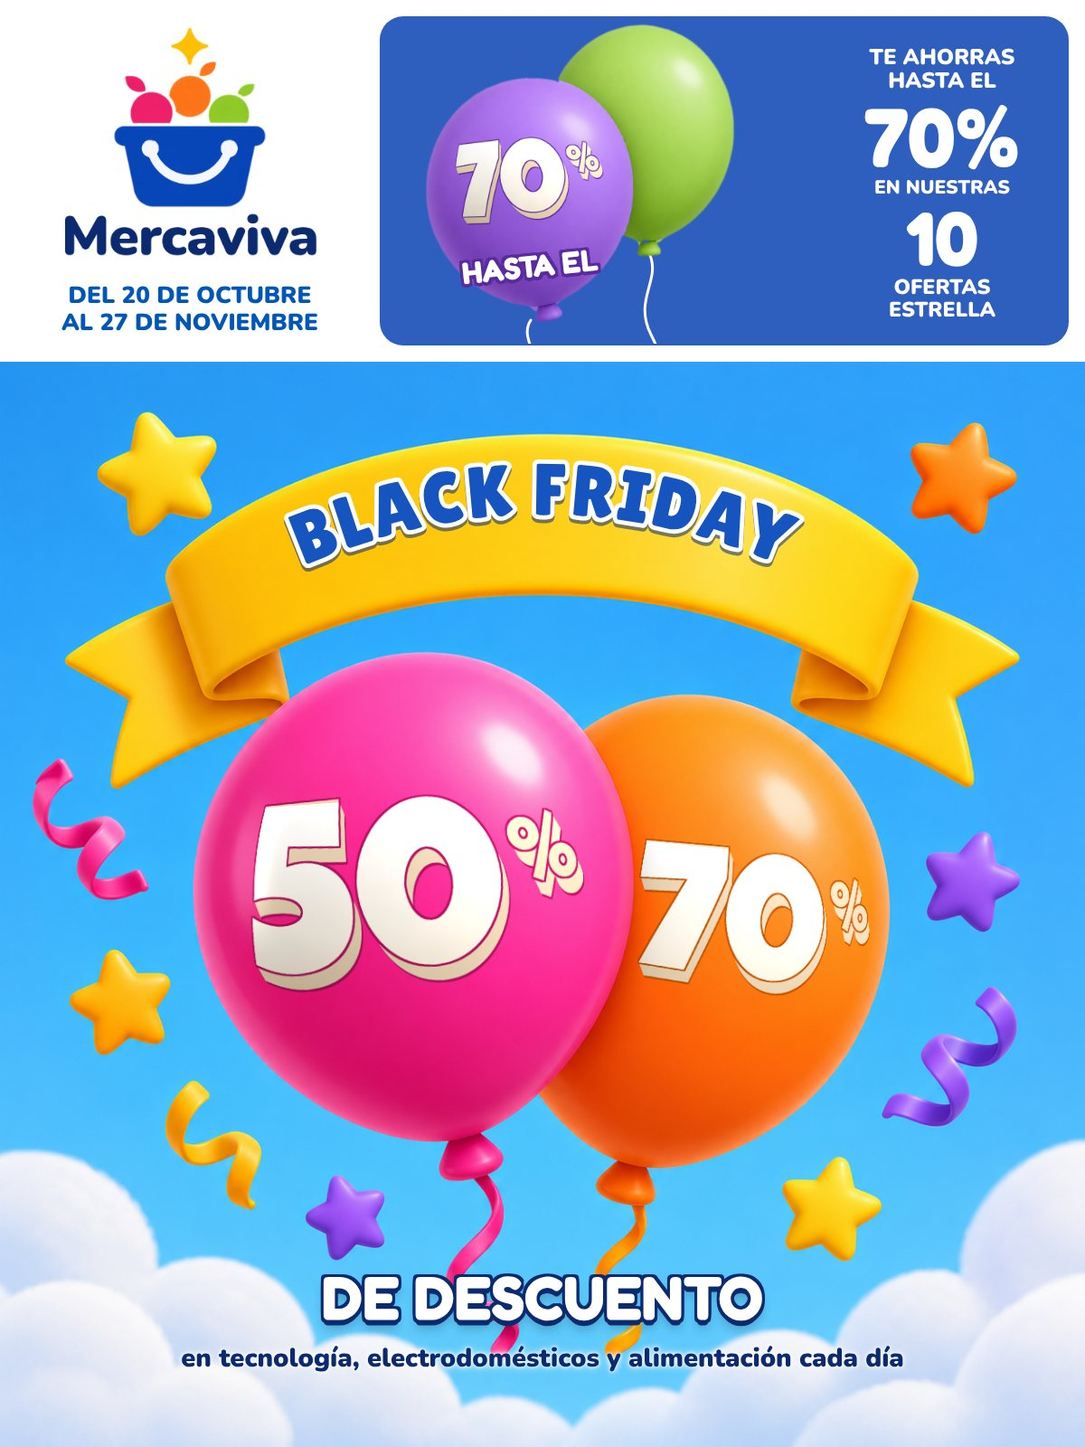
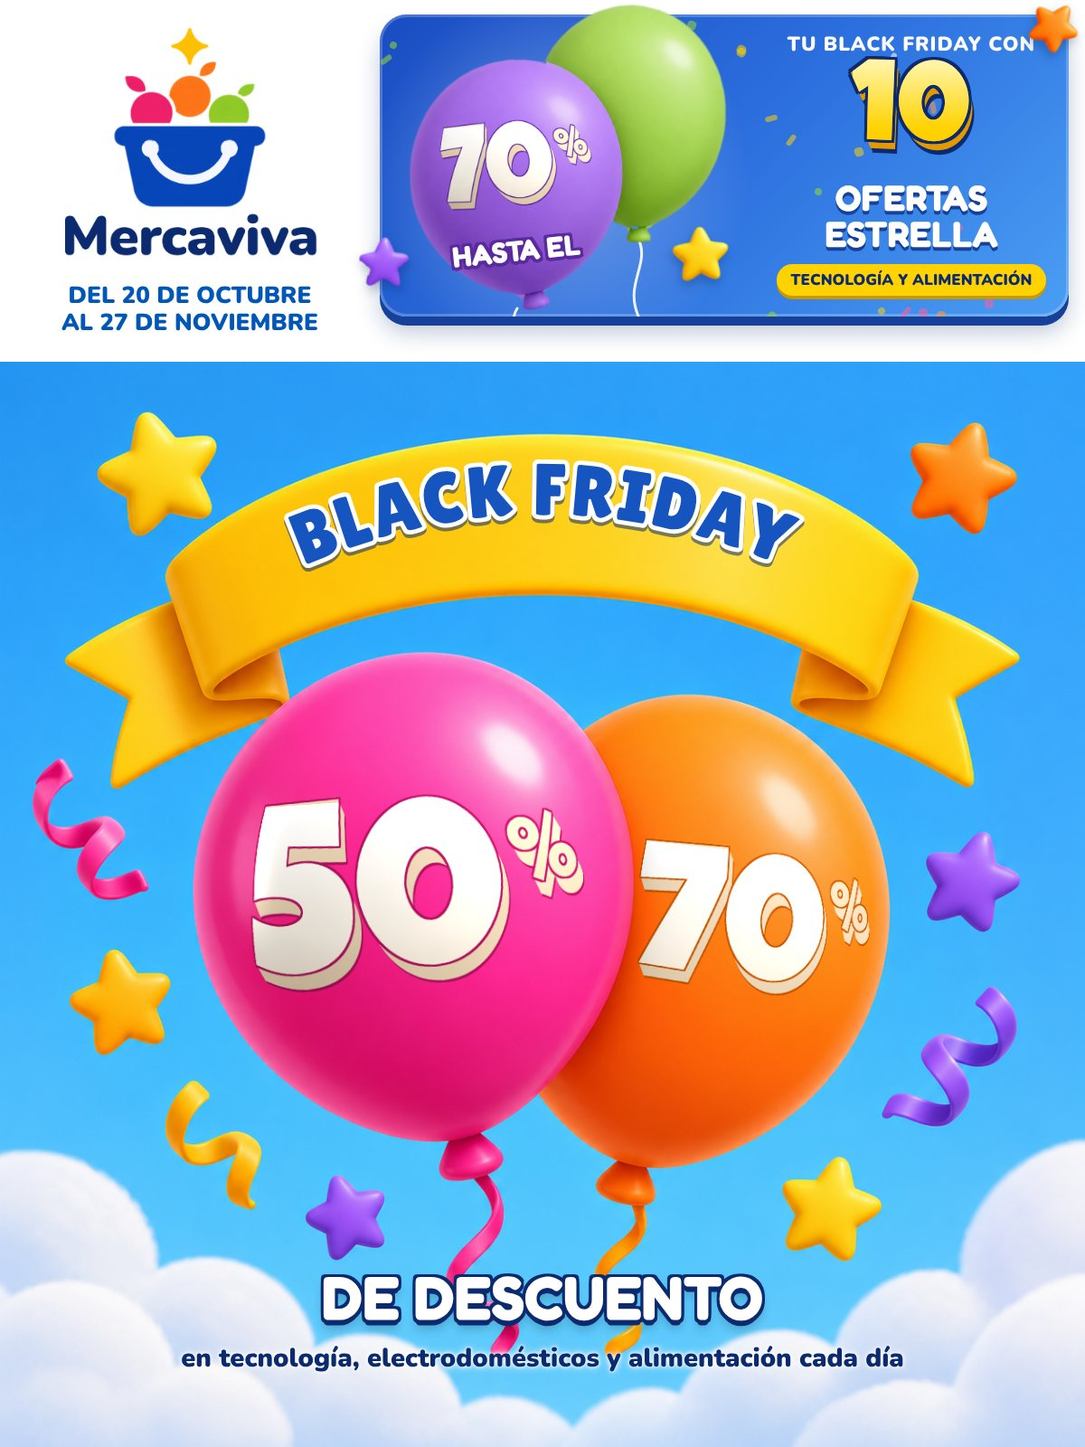
Recuadro de cabecera rediseñado: volumen, confeti, estrellas y 10 ofertas estrella en 3D
Claude-Session: https://claude.ai/code/session_014n8fruw4BUtYLKWozkJouR

Changed region(s): [[0.3392, 0.0, 1.0, 0.25]]

diff --git a/index.html b/index.html
@@ -19,50 +19,50 @@ body{margin:0;padding:0;background:#EEF3F9}
 <tr><td align="center" style="padding:10px 16px;font-family:Arial, Helvetica, sans-serif;font-size:12px;line-height:18px;color:#4A5878;background:#EEF3F9">
 <strong style="color:#0B2A6F">Publicidad</strong> · Ejercicio académico. Mercaviva es una marca ficticia; no es una comunicación oficial de Carrefour.<br>
 ¿No ves bien este email? <a href="{$url}" target="_blank" style="color:#0057B8;text-decoration:underline">Ábrelo en el navegador</a></td></tr>
-<tr><td style="padding:0"><a href="https://www.carrefour.es/lavadora-lg-f2x50s9tlb-9-kg-carga-frontal-1200-rpm-wifi-clase-a-blanco/VC4A-32514266/p?utm_source=newsletter&utm_medium=email&utm_campaign=black_friday_2026&utm_content=lavadora_lg" target="_blank"><img src="https://caarlosfdz.github.io/newsletter-mercaviva/bf-cover.jpg?v=10162118" width="600" alt="Mercaviva. Black Friday del 20 de octubre al 27 de noviembre: 50 % y 70 % de descuento en tecnología, electrodomésticos y alimentación" class="fluid" style="display:block;width:100%;max-width:600px;height:auto;border:0"></a></td></tr>
-<tr><td style="padding:0"><a href="https://www.carrefour.es/lavadora-lg-f2x50s9tlb-9-kg-carga-frontal-1200-rpm-wifi-clase-a-blanco/VC4A-32514266/p?utm_source=newsletter&utm_medium=email&utm_campaign=black_friday_2026&utm_content=lavadora_lg" target="_blank"><img src="https://caarlosfdz.github.io/newsletter-mercaviva/bf-p1.jpg?v=10162118" width="600" alt="Lavadora LG 9 kg: 164,70 €, antes 549 €, 70 % de descuento" class="fluid" style="display:block;width:100%;max-width:600px;height:auto;border:0"></a></td></tr>
+<tr><td style="padding:0"><a href="https://www.carrefour.es/lavadora-lg-f2x50s9tlb-9-kg-carga-frontal-1200-rpm-wifi-clase-a-blanco/VC4A-32514266/p?utm_source=newsletter&utm_medium=email&utm_campaign=black_friday_2026&utm_content=lavadora_lg" target="_blank"><img src="https://caarlosfdz.github.io/newsletter-mercaviva/bf-cover.jpg?v=10162121" width="600" alt="Mercaviva. Black Friday del 20 de octubre al 27 de noviembre: 50 % y 70 % de descuento en tecnología, electrodomésticos y alimentación" class="fluid" style="display:block;width:100%;max-width:600px;height:auto;border:0"></a></td></tr>
+<tr><td style="padding:0"><a href="https://www.carrefour.es/lavadora-lg-f2x50s9tlb-9-kg-carga-frontal-1200-rpm-wifi-clase-a-blanco/VC4A-32514266/p?utm_source=newsletter&utm_medium=email&utm_campaign=black_friday_2026&utm_content=lavadora_lg" target="_blank"><img src="https://caarlosfdz.github.io/newsletter-mercaviva/bf-p1.jpg?v=10162121" width="600" alt="Lavadora LG 9 kg: 164,70 €, antes 549 €, 70 % de descuento" class="fluid" style="display:block;width:100%;max-width:600px;height:auto;border:0"></a></td></tr>
 <tr><td align="center" style="padding:6px 40px 30px"><table role="presentation" cellpadding="0" cellspacing="0" border="0" width="100%"><tr><td align="center" bgcolor="#0057B8" style="border-radius:10px;background:#0057B8">
 <a href="https://www.carrefour.es/lavadora-lg-f2x50s9tlb-9-kg-carga-frontal-1200-rpm-wifi-clase-a-blanco/VC4A-32514266/p?utm_source=newsletter&utm_medium=email&utm_campaign=black_friday_2026&utm_content=lavadora_lg" target="_blank" style="display:block;padding:14px 8px;font-family:Arial, Helvetica, sans-serif;font-size:16px;line-height:20px;font-weight:bold;color:#ffffff;text-decoration:none;text-align:center;border-radius:10px">Lo quiero al −70 %</a></td></tr></table></td></tr>
-<tr><td style="padding:0"><img src="https://caarlosfdz.github.io/newsletter-mercaviva/bf-tit-tecnologia.jpg?v=10162118" width="600" alt="Ofertas en tecnología: descuentos de hasta el 70 %" class="fluid" style="display:block;width:100%;max-width:600px;height:auto;border:0"></td></tr>
+<tr><td style="padding:0"><img src="https://caarlosfdz.github.io/newsletter-mercaviva/bf-tit-tecnologia.jpg?v=10162121" width="600" alt="Ofertas en tecnología: descuentos de hasta el 70 %" class="fluid" style="display:block;width:100%;max-width:600px;height:auto;border:0"></td></tr>
 <tr><td style="padding:0"><table role="presentation" cellpadding="0" cellspacing="0" border="0" width="100%"><tr>
-<td class="col" width="300" valign="top" style="width:300px;vertical-align:top"><a href="https://www.carrefour.es/?utm_source=newsletter&utm_medium=email&utm_campaign=black_friday_2026&utm_content=producto6" target="_blank"><img src="https://caarlosfdz.github.io/newsletter-mercaviva/bf-p6.png?v=10162118" width="300" alt="Producto 6: 95,22 €, antes 218,99 €, −56,5 % y envío gratis" class="fluid" style="display:block;width:100%;max-width:300px;height:auto;border:0"></a>
+<td class="col" width="300" valign="top" style="width:300px;vertical-align:top"><a href="https://www.carrefour.es/?utm_source=newsletter&utm_medium=email&utm_campaign=black_friday_2026&utm_content=producto6" target="_blank"><img src="https://caarlosfdz.github.io/newsletter-mercaviva/bf-p6.png?v=10162121" width="300" alt="Producto 6: 95,22 €, antes 218,99 €, −56,5 % y envío gratis" class="fluid" style="display:block;width:100%;max-width:300px;height:auto;border:0"></a>
 <div style="padding:4px 14px 26px"><table role="presentation" cellpadding="0" cellspacing="0" border="0" width="100%"><tr><td align="center" bgcolor="#0057B8" style="border-radius:10px;background:#0057B8">
 <a href="https://www.carrefour.es/?utm_source=newsletter&utm_medium=email&utm_campaign=black_friday_2026&utm_content=producto6" target="_blank" style="display:block;padding:14px 8px;font-family:Arial, Helvetica, sans-serif;font-size:16px;line-height:20px;font-weight:bold;color:#ffffff;text-decoration:none;text-align:center;border-radius:10px">Llévatelo ya</a></td></tr></table></div></td>
-<td class="col" width="300" valign="top" style="width:300px;vertical-align:top"><a href="https://www.carrefour.es/?utm_source=newsletter&utm_medium=email&utm_campaign=black_friday_2026&utm_content=producto2" target="_blank"><img src="https://caarlosfdz.github.io/newsletter-mercaviva/bf-p2.png?v=10162118" width="300" alt="Producto 2: 154,50 €, antes 309 €, −50 %" class="fluid" style="display:block;width:100%;max-width:300px;height:auto;border:0"></a>
+<td class="col" width="300" valign="top" style="width:300px;vertical-align:top"><a href="https://www.carrefour.es/?utm_source=newsletter&utm_medium=email&utm_campaign=black_friday_2026&utm_content=producto2" target="_blank"><img src="https://caarlosfdz.github.io/newsletter-mercaviva/bf-p2.png?v=10162121" width="300" alt="Producto 2: 154,50 €, antes 309 €, −50 %" class="fluid" style="display:block;width:100%;max-width:300px;height:auto;border:0"></a>
 <div style="padding:4px 14px 26px"><table role="presentation" cellpadding="0" cellspacing="0" border="0" width="100%"><tr><td align="center" bgcolor="#0057B8" style="border-radius:10px;background:#0057B8">
 <a href="https://www.carrefour.es/?utm_source=newsletter&utm_medium=email&utm_campaign=black_friday_2026&utm_content=producto2" target="_blank" style="display:block;padding:14px 8px;font-family:Arial, Helvetica, sans-serif;font-size:16px;line-height:20px;font-weight:bold;color:#ffffff;text-decoration:none;text-align:center;border-radius:10px">Aprovecha el −50 %</a></td></tr></table></div></td></tr></table></td></tr>
 <tr><td style="padding:0"><table role="presentation" cellpadding="0" cellspacing="0" border="0" width="100%"><tr>
-<td class="col" width="300" valign="top" style="width:300px;vertical-align:top"><a href="https://www.carrefour.es/?utm_source=newsletter&utm_medium=email&utm_campaign=black_friday_2026&utm_content=producto5" target="_blank"><img src="https://caarlosfdz.github.io/newsletter-mercaviva/bf-p5.png?v=10162118" width="300" alt="Producto 5: 4.877,62 €, antes 6.150,99 €, −20,7 %" class="fluid" style="display:block;width:100%;max-width:300px;height:auto;border:0"></a>
+<td class="col" width="300" valign="top" style="width:300px;vertical-align:top"><a href="https://www.carrefour.es/?utm_source=newsletter&utm_medium=email&utm_campaign=black_friday_2026&utm_content=producto5" target="_blank"><img src="https://caarlosfdz.github.io/newsletter-mercaviva/bf-p5.png?v=10162121" width="300" alt="Producto 5: 4.877,62 €, antes 6.150,99 €, −20,7 %" class="fluid" style="display:block;width:100%;max-width:300px;height:auto;border:0"></a>
 <div style="padding:4px 14px 26px"><table role="presentation" cellpadding="0" cellspacing="0" border="0" width="100%"><tr><td align="center" bgcolor="#0057B8" style="border-radius:10px;background:#0057B8">
 <a href="https://www.carrefour.es/?utm_source=newsletter&utm_medium=email&utm_campaign=black_friday_2026&utm_content=producto5" target="_blank" style="display:block;padding:14px 8px;font-family:Arial, Helvetica, sans-serif;font-size:16px;line-height:20px;font-weight:bold;color:#ffffff;text-decoration:none;text-align:center;border-radius:10px">Ahorra 1.273 €</a></td></tr></table></div></td>
-<td class="col" width="300" valign="top" style="width:300px;vertical-align:top"><a href="https://www.carrefour.es/?utm_source=newsletter&utm_medium=email&utm_campaign=black_friday_2026&utm_content=producto3" target="_blank"><img src="https://caarlosfdz.github.io/newsletter-mercaviva/bf-p3.png?v=10162118" width="300" alt="Producto 3: súperchollo a 519 €" class="fluid" style="display:block;width:100%;max-width:300px;height:auto;border:0"></a>
+<td class="col" width="300" valign="top" style="width:300px;vertical-align:top"><a href="https://www.carrefour.es/?utm_source=newsletter&utm_medium=email&utm_campaign=black_friday_2026&utm_content=producto3" target="_blank"><img src="https://caarlosfdz.github.io/newsletter-mercaviva/bf-p3.png?v=10162121" width="300" alt="Producto 3: súperchollo a 519 €" class="fluid" style="display:block;width:100%;max-width:300px;height:auto;border:0"></a>
 <div style="padding:4px 14px 26px"><table role="presentation" cellpadding="0" cellspacing="0" border="0" width="100%"><tr><td align="center" bgcolor="#0057B8" style="border-radius:10px;background:#0057B8">
 <a href="https://www.carrefour.es/?utm_source=newsletter&utm_medium=email&utm_campaign=black_friday_2026&utm_content=producto3" target="_blank" style="display:block;padding:14px 8px;font-family:Arial, Helvetica, sans-serif;font-size:16px;line-height:20px;font-weight:bold;color:#ffffff;text-decoration:none;text-align:center;border-radius:10px">Ver el súperchollo</a></td></tr></table></div></td></tr></table></td></tr>
 
 <tr><td style="padding:0"><table role="presentation" cellpadding="0" cellspacing="0" border="0" width="100%"><tr>
-<td class="col" width="300" valign="top" style="width:300px;vertical-align:top"><a href="https://www.carrefour.es/?utm_source=newsletter&utm_medium=email&utm_campaign=black_friday_2026&utm_content=producto4" target="_blank"><img src="https://caarlosfdz.github.io/newsletter-mercaviva/bf-p4.png?v=10162118" width="300" alt="Producto 4 en precompra: 59,90 €, antes 69,99 €, envío gratis" class="fluid" style="display:block;width:100%;max-width:300px;height:auto;border:0"></a>
+<td class="col" width="300" valign="top" style="width:300px;vertical-align:top"><a href="https://www.carrefour.es/?utm_source=newsletter&utm_medium=email&utm_campaign=black_friday_2026&utm_content=producto4" target="_blank"><img src="https://caarlosfdz.github.io/newsletter-mercaviva/bf-p4.png?v=10162121" width="300" alt="Producto 4 en precompra: 59,90 €, antes 69,99 €, envío gratis" class="fluid" style="display:block;width:100%;max-width:300px;height:auto;border:0"></a>
 <div style="padding:4px 14px 26px"><table role="presentation" cellpadding="0" cellspacing="0" border="0" width="100%"><tr><td align="center" bgcolor="#0057B8" style="border-radius:10px;background:#0057B8">
 <a href="https://www.carrefour.es/?utm_source=newsletter&utm_medium=email&utm_campaign=black_friday_2026&utm_content=producto4" target="_blank" style="display:block;padding:14px 8px;font-family:Arial, Helvetica, sans-serif;font-size:16px;line-height:20px;font-weight:bold;color:#ffffff;text-decoration:none;text-align:center;border-radius:10px">Resérvalo ya</a></td></tr></table></div></td>
 <td class="col" width="300" valign="middle" style="width:300px;vertical-align:middle;padding:20px;font-family:Arial, Helvetica, sans-serif;color:#0B2A6F">
 <p style="margin:0 0 8px;font-size:20px;line-height:24px;font-weight:bold">Envío gratis</p>
 <p style="margin:0;font-size:15px;line-height:21px">En los productos marcados. Ofertas válidas del 20 de octubre al 27 de noviembre o hasta fin de existencias.</p></td></tr></table></td></tr>
-<tr><td style="padding:0"><img src="https://caarlosfdz.github.io/newsletter-mercaviva/bf-tit-compra.jpg?v=10162118" width="600" alt="Ofertas en tu compra: 3x2, 2.ª unidad al 50 % y precios imbatibles" class="fluid" style="display:block;width:100%;max-width:600px;height:auto;border:0"></td></tr>
+<tr><td style="padding:0"><img src="https://caarlosfdz.github.io/newsletter-mercaviva/bf-tit-compra.jpg?v=10162121" width="600" alt="Ofertas en tu compra: 3x2, 2.ª unidad al 50 % y precios imbatibles" class="fluid" style="display:block;width:100%;max-width:600px;height:auto;border:0"></td></tr>
 <tr><td style="padding:0"><table role="presentation" cellpadding="0" cellspacing="0" border="0" width="100%"><tr>
-<td class="col" width="300" valign="top" style="width:300px;vertical-align:top"><a href="https://www.carrefour.es/?utm_source=newsletter&utm_medium=email&utm_campaign=black_friday_2026&utm_content=aceite_coosur" target="_blank"><img src="https://caarlosfdz.github.io/newsletter-mercaviva/bf-p9.png?v=10162118" width="300" alt="Aceite Coosur Serie Oro 1 l: 3x2, el litro sale a 4,13 €" class="fluid" style="display:block;width:100%;max-width:300px;height:auto;border:0"></a>
+<td class="col" width="300" valign="top" style="width:300px;vertical-align:top"><a href="https://www.carrefour.es/?utm_source=newsletter&utm_medium=email&utm_campaign=black_friday_2026&utm_content=aceite_coosur" target="_blank"><img src="https://caarlosfdz.github.io/newsletter-mercaviva/bf-p9.png?v=10162121" width="300" alt="Aceite Coosur Serie Oro 1 l: 3x2, el litro sale a 4,13 €" class="fluid" style="display:block;width:100%;max-width:300px;height:auto;border:0"></a>
 <div style="padding:4px 14px 26px"><table role="presentation" cellpadding="0" cellspacing="0" border="0" width="100%"><tr><td align="center" bgcolor="#0057B8" style="border-radius:10px;background:#0057B8">
 <a href="https://www.carrefour.es/?utm_source=newsletter&utm_medium=email&utm_campaign=black_friday_2026&utm_content=aceite_coosur" target="_blank" style="display:block;padding:14px 8px;font-family:Arial, Helvetica, sans-serif;font-size:16px;line-height:20px;font-weight:bold;color:#ffffff;text-decoration:none;text-align:center;border-radius:10px">Llévate 3, paga 2</a></td></tr></table></div></td>
-<td class="col" width="300" valign="top" style="width:300px;vertical-align:top"><a href="https://www.carrefour.es/?utm_source=newsletter&utm_medium=email&utm_campaign=black_friday_2026&utm_content=aceite_la_espanola" target="_blank"><img src="https://caarlosfdz.github.io/newsletter-mercaviva/bf-p10.png?v=10162118" width="300" alt="Aceite La Española suave 1 l: 3x2, el litro sale a 3,66 €" class="fluid" style="display:block;width:100%;max-width:300px;height:auto;border:0"></a>
+<td class="col" width="300" valign="top" style="width:300px;vertical-align:top"><a href="https://www.carrefour.es/?utm_source=newsletter&utm_medium=email&utm_campaign=black_friday_2026&utm_content=aceite_la_espanola" target="_blank"><img src="https://caarlosfdz.github.io/newsletter-mercaviva/bf-p10.png?v=10162121" width="300" alt="Aceite La Española suave 1 l: 3x2, el litro sale a 3,66 €" class="fluid" style="display:block;width:100%;max-width:300px;height:auto;border:0"></a>
 <div style="padding:4px 14px 26px"><table role="presentation" cellpadding="0" cellspacing="0" border="0" width="100%"><tr><td align="center" bgcolor="#0057B8" style="border-radius:10px;background:#0057B8">
 <a href="https://www.carrefour.es/?utm_source=newsletter&utm_medium=email&utm_campaign=black_friday_2026&utm_content=aceite_la_espanola" target="_blank" style="display:block;padding:14px 8px;font-family:Arial, Helvetica, sans-serif;font-size:16px;line-height:20px;font-weight:bold;color:#ffffff;text-decoration:none;text-align:center;border-radius:10px">Aprovecha el 3x2</a></td></tr></table></div></td></tr></table></td></tr>
 <tr><td style="padding:0"><table role="presentation" cellpadding="0" cellspacing="0" border="0" width="100%"><tr>
-<td class="col" width="300" valign="top" style="width:300px;vertical-align:top"><a href="https://www.carrefour.es/?utm_source=newsletter&utm_medium=email&utm_campaign=black_friday_2026&utm_content=salmon_ahumado" target="_blank"><img src="https://caarlosfdz.github.io/newsletter-mercaviva/bf-p7.png?v=10162118" width="300" alt="Salmón ahumado Extra 100 g: 2.ª unidad al 50 %, cada una a 2,77 €" class="fluid" style="display:block;width:100%;max-width:300px;height:auto;border:0"></a>
+<td class="col" width="300" valign="top" style="width:300px;vertical-align:top"><a href="https://www.carrefour.es/?utm_source=newsletter&utm_medium=email&utm_campaign=black_friday_2026&utm_content=salmon_ahumado" target="_blank"><img src="https://caarlosfdz.github.io/newsletter-mercaviva/bf-p7.png?v=10162121" width="300" alt="Salmón ahumado Extra 100 g: 2.ª unidad al 50 %, cada una a 2,77 €" class="fluid" style="display:block;width:100%;max-width:300px;height:auto;border:0"></a>
 <div style="padding:4px 14px 26px"><table role="presentation" cellpadding="0" cellspacing="0" border="0" width="100%"><tr><td align="center" bgcolor="#0057B8" style="border-radius:10px;background:#0057B8">
 <a href="https://www.carrefour.es/?utm_source=newsletter&utm_medium=email&utm_campaign=black_friday_2026&utm_content=salmon_ahumado" target="_blank" style="display:block;padding:14px 8px;font-family:Arial, Helvetica, sans-serif;font-size:16px;line-height:20px;font-weight:bold;color:#ffffff;text-decoration:none;text-align:center;border-radius:10px">Añadir a la cesta</a></td></tr></table></div></td>
-<td class="col" width="300" valign="top" style="width:300px;vertical-align:top"><a href="https://www.carrefour.es/?utm_source=newsletter&utm_medium=email&utm_campaign=black_friday_2026&utm_content=lubina" target="_blank"><img src="https://caarlosfdz.github.io/newsletter-mercaviva/bf-p8.png?v=10162118" width="300" alt="Lubina 600 g aprox.: 5,39 €, antes 5,97 €" class="fluid" style="display:block;width:100%;max-width:300px;height:auto;border:0"></a>
+<td class="col" width="300" valign="top" style="width:300px;vertical-align:top"><a href="https://www.carrefour.es/?utm_source=newsletter&utm_medium=email&utm_campaign=black_friday_2026&utm_content=lubina" target="_blank"><img src="https://caarlosfdz.github.io/newsletter-mercaviva/bf-p8.png?v=10162121" width="300" alt="Lubina 600 g aprox.: 5,39 €, antes 5,97 €" class="fluid" style="display:block;width:100%;max-width:300px;height:auto;border:0"></a>
 <div style="padding:4px 14px 26px"><table role="presentation" cellpadding="0" cellspacing="0" border="0" width="100%"><tr><td align="center" bgcolor="#0057B8" style="border-radius:10px;background:#0057B8">
 <a href="https://www.carrefour.es/?utm_source=newsletter&utm_medium=email&utm_campaign=black_friday_2026&utm_content=lubina" target="_blank" style="display:block;padding:14px 8px;font-family:Arial, Helvetica, sans-serif;font-size:16px;line-height:20px;font-weight:bold;color:#ffffff;text-decoration:none;text-align:center;border-radius:10px">Quiero esta lubina</a></td></tr></table></div></td></tr></table></td></tr>
 <tr><td align="center" style="padding:10px 20px 6px"><a href="https://www.mercaviva.es/?utm_source=newsletter&utm_medium=email&utm_campaign=black_friday_2026&utm_content=footer" target="_blank" style="font-family:Arial, Helvetica, sans-serif;font-size:16px;font-weight:bold;color:#0057B8;text-decoration:none">www.mercaviva.es</a></td></tr>
-<tr><td align="center" style="padding:8px 20px 18px"><table role="presentation" cellpadding="0" cellspacing="0" border="0"><tr><td style="padding:0 6px"><a href="https://www.mercaviva.es/redes/instagram" target="_blank"><img src="https://caarlosfdz.github.io/newsletter-mercaviva/bf-ico-instagram.png?v=10162118" width="40" height="40" alt="Instagram" style="display:block;border:0;width:40px;height:40px"></a></td><td style="padding:0 6px"><a href="https://www.mercaviva.es/redes/facebook" target="_blank"><img src="https://caarlosfdz.github.io/newsletter-mercaviva/bf-ico-facebook.png?v=10162118" width="40" height="40" alt="Facebook" style="display:block;border:0;width:40px;height:40px"></a></td><td style="padding:0 6px"><a href="https://www.mercaviva.es/redes/tiktok" target="_blank"><img src="https://caarlosfdz.github.io/newsletter-mercaviva/bf-ico-tiktok.png?v=10162118" width="40" height="40" alt="TikTok" style="display:block;border:0;width:40px;height:40px"></a></td><td style="padding:0 6px"><a href="https://www.mercaviva.es/redes/youtube" target="_blank"><img src="https://caarlosfdz.github.io/newsletter-mercaviva/bf-ico-youtube.png?v=10162118" width="40" height="40" alt="YouTube" style="display:block;border:0;width:40px;height:40px"></a></td><td style="padding:0 6px"><a href="https://www.mercaviva.es/redes/x" target="_blank"><img src="https://caarlosfdz.github.io/newsletter-mercaviva/bf-ico-x.png?v=10162118" width="40" height="40" alt="X" style="display:block;border:0;width:40px;height:40px"></a></td></tr></table></td></tr>
+<tr><td align="center" style="padding:8px 20px 18px"><table role="presentation" cellpadding="0" cellspacing="0" border="0"><tr><td style="padding:0 6px"><a href="https://www.mercaviva.es/redes/instagram" target="_blank"><img src="https://caarlosfdz.github.io/newsletter-mercaviva/bf-ico-instagram.png?v=10162121" width="40" height="40" alt="Instagram" style="display:block;border:0;width:40px;height:40px"></a></td><td style="padding:0 6px"><a href="https://www.mercaviva.es/redes/facebook" target="_blank"><img src="https://caarlosfdz.github.io/newsletter-mercaviva/bf-ico-facebook.png?v=10162121" width="40" height="40" alt="Facebook" style="display:block;border:0;width:40px;height:40px"></a></td><td style="padding:0 6px"><a href="https://www.mercaviva.es/redes/tiktok" target="_blank"><img src="https://caarlosfdz.github.io/newsletter-mercaviva/bf-ico-tiktok.png?v=10162121" width="40" height="40" alt="TikTok" style="display:block;border:0;width:40px;height:40px"></a></td><td style="padding:0 6px"><a href="https://www.mercaviva.es/redes/youtube" target="_blank"><img src="https://caarlosfdz.github.io/newsletter-mercaviva/bf-ico-youtube.png?v=10162121" width="40" height="40" alt="YouTube" style="display:block;border:0;width:40px;height:40px"></a></td><td style="padding:0 6px"><a href="https://www.mercaviva.es/redes/x" target="_blank"><img src="https://caarlosfdz.github.io/newsletter-mercaviva/bf-ico-x.png?v=10162121" width="40" height="40" alt="X" style="display:block;border:0;width:40px;height:40px"></a></td></tr></table></td></tr>
 <tr><td style="padding:16px 24px 26px;font-family:Arial, Helvetica, sans-serif;font-size:12px;line-height:18px;color:#4A5878;background:#EEF3F9">
 <p style="margin:0 0 10px"><strong style="color:#0B2A6F">Condiciones de las promociones.</strong> Válidas del 20/10/2026 al 27/11/2026 o hasta fin de existencias. <strong>3x2:</strong> al comprar 3 unidades del mismo producto, la de menor precio sale gratis. <strong>2.ª ud. al 50 %:</strong> descuento del 50 % en la segunda unidad del mismo producto. <strong>Envío gratis:</strong> solo en los productos indicados y en envíos a la península. Precios con IVA incluido. Descuentos calculados sobre el precio anterior indicado.</p>
 <p style="margin:0 0 10px">Recibes este email porque estás suscrito a la newsletter de Mercaviva. Remitente: Mercaviva Supermercados, S.A. (empresa ficticia), C/ Ejemplo, 1, 28000 Madrid. Consulta nuestra <a href="https://www.mercaviva.es/privacidad" target="_blank" style="color:#0057B8;text-decoration:underline">política de privacidad</a> o <a href="{$unsubscribe}" target="_blank" style="color:#0057B8;text-decoration:underline">date de baja</a> cuando quieras.</p>
